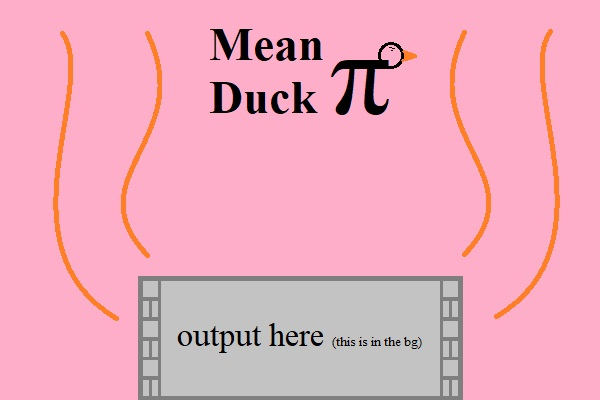
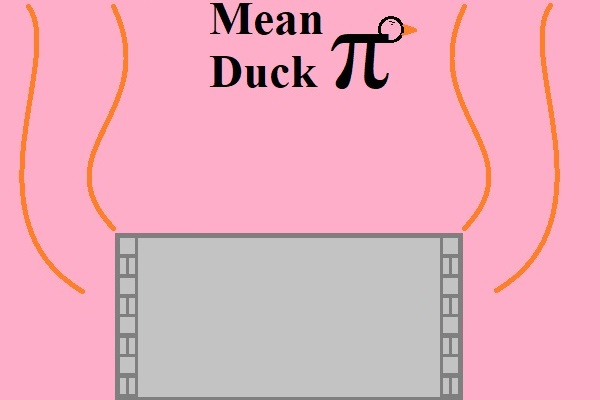
background edit + output text

diff --git a/WORKING GRAFICAL USER INTERFACE/src/loose/oose/fis/lab/student/manager/controllers/InputController.java b/WORKING GRAFICAL USER INTERFACE/src/loose/oose/fis/lab/student/manager/controllers/InputController.java
@@ -17,6 +17,8 @@ public class InputController {
     public Text inputMessage;
     @FXML
     public TextField digitsField;
+    @FXML
+    public Text outputMessage;
 
     @FXML
     public void HandleCalculateButtonAction1() {
@@ -27,6 +29,11 @@ public class InputController {
             return;
         } else {
             inputMessage.setText("Calculating " + digits + " of Pi");
+
+            outputMessage.setText("SCORE = 3.14");
+
+
+
             return;
         }
 /*
